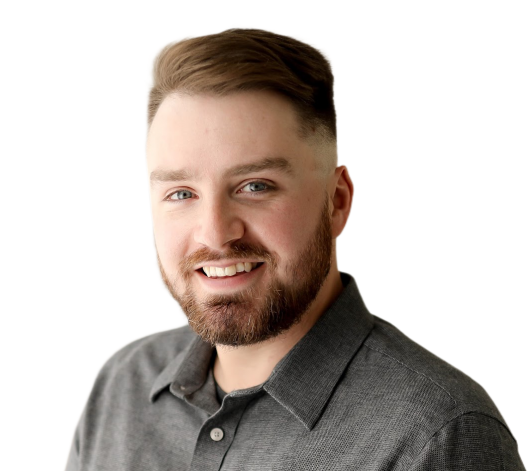
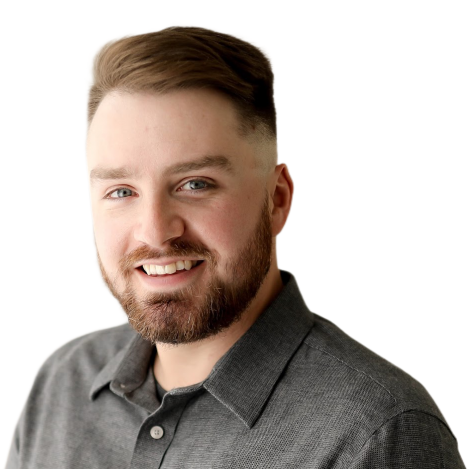
trying to fix production bugs without the right tools

diff --git a/src/routes/+layout.svelte b/src/routes/+layout.svelte
@@ -1,7 +1,6 @@
 <script lang="ts">
   import Header from '../components/Header.svelte';
   import Footer from '../components/Footer.svelte';
-  import '../app.css';
   import { page } from '$app/stores';
   import { dev } from '$app/environment';
   import { inject } from '@vercel/analytics';
@@ -13,8 +12,81 @@
 
 <svelte:head>
   <title>{pageTitle.charAt(0).toUpperCase() + pageTitle.slice(1)}</title>
+  <link rel="preconnect" href="https://fonts.googleapis.com" />
+  <link rel="preconnect" href="https://fonts.gstatic.com" crossorigin />
+  <link
+    href="https://fonts.googleapis.com/css2?family=Inter:wght@400;500;700&display=swap"
+    rel="stylesheet"
+  />
 </svelte:head>
 
 <Header />
 <main><slot /></main>
 <Footer />
+
+<style>
+  :root {
+    box-sizing: border-box;
+    height: 100%;
+    font-family: 'Inter', sans-serif;
+  }
+
+  :global(*, *::before, *::after, *:visited) {
+    box-sizing: inherit;
+    margin: 0;
+    padding: 0;
+    text-decoration: unset;
+    list-style: none;
+  }
+
+  :global(body) {
+    background: black;
+    color: white;
+    max-width: clamp(340px, 100vw, 1440px);
+    min-height: 100dvh;
+    display: grid;
+    grid-template-rows: auto 1fr auto;
+    place-items: center center;
+    margin-inline: auto;
+    padding-block: 0.75rem;
+    padding-inline: 0.5rem;
+  }
+
+  :global(main) {
+    height: 100%;
+    margin-inline: auto;
+    padding-block: 1rem;
+  }
+
+  :global(input, button) {
+    font: inherit;
+  }
+
+  :global(img) {
+    display: block;
+    width: 100%;
+  }
+
+  :global(p, h1, h2, h3, h4, h5, h6) {
+    overflow-wrap: break-word;
+  }
+
+  :global(h1) {
+    font-size: clamp(2.75em, 4rem, 10vw);
+    font-weight: 700;
+  }
+
+  :global(h2) {
+    font-weight: 700;
+    font-size: clamp(2rem, 4vw, 3.5rem);
+  }
+
+  :global(p) {
+    font-size: clamp(1rem, 1.5vw, 1rem);
+  }
+
+  :global(a) {
+    text-decoration: none;
+    color: unset;
+  }
+</style>

diff --git a/src/routes/about/+page.svelte b/src/routes/about/+page.svelte
@@ -26,13 +26,9 @@
 
 <style>
   img {
-    height: clamp(200px, 20vw, 500px);
-    background-color: black;
-    filter: grayscale();
-  }
-
-  img:hover {
-    filter: unset;
+    aspect-ratio: 1;
+    object-fit: contain;
+    width: clamp(6rem, 75vw, 20rem);
   }
 
   h2 {
@@ -60,44 +56,13 @@
   }
 
   div {
+    overflow: hidden;
     width: fit-content;
     margin: 2rem auto;
     border-radius: 50%;
-    border-right: 4px solid transparent;
-    background: linear-gradient(
-      330deg,
-      transparent 35%,
-      #ffffff95,
-      transparent 90%
-    );
+    border-right: 0.25rem solid white;
+    border-bottom: 0.25rem solid white;
     background-size: 140% 150%;
-    filter: drop-shadow(1.5rem 1.25rem 1rem #32323298)
-      drop-shadow(1.5rem 0.85rem 1rem #ffffff90);
-    overflow: hidden;
     transition: all linear 250ms;
-  }
-  div:hover {
-    background: linear-gradient(330deg, #ffec00 35%, #ff0094, transparent 90%);
-    background-size: 140% 150%;
-    filter: drop-shadow(1.5rem 1.25rem 1rem #ffec0098)
-      drop-shadow(1.5rem 0.85rem 1rem #ff009490);
-  }
-
-  @media (hover: none) {
-    div {
-      background: linear-gradient(
-        330deg,
-        #ffec00 35%,
-        #ff0094,
-        transparent 90%
-      );
-      background-size: 140% 150%;
-      filter: drop-shadow(1.5rem 1.25rem 1rem #ffec0098)
-        drop-shadow(1.5rem 0.85rem 1rem #ff009490);
-    }
-
-    img {
-      filter: unset;
-    }
   }
 </style>

diff --git a/src/components/Header.svelte b/src/components/Header.svelte
@@ -1,8 +1,5 @@
 <script lang="ts">
   import { page } from '$app/stores';
-  $: activeUrl = $page.url.pathname;
-
- 
 
   const navLinks: Array<Path> = [
     { name: 'About', path: '/about' },
@@ -16,8 +13,9 @@
     <ul>
       {#each navLinks as navLink}
         <li>
-          <a href={navLink.path} class:active={activeUrl === navLink.path}
-            >{navLink.name}</a
+          <a
+            href={navLink.path}
+            class:active={$page.url.pathname === navLink.path}>{navLink.name}</a
           >
         </li>
       {/each}
@@ -42,8 +40,6 @@
     font-size: clamp(1.45rem, 3vw, 2.5rem);
     font-weight: 700;
     padding-inline: 0.5rem;
-  }
-  header > a:hover {
     background: linear-gradient(to right, #ff0094 0%, #ffec00 100%);
     background-clip: text;
     -webkit-background-clip: text;
@@ -76,19 +72,5 @@
     text-decoration: underline 2px white;
     color: #ffffff;
     transition: all ease 100ms;
-  }
-
-  @media screen and (max-width: 800px) {
-    header > a {
-      background: linear-gradient(to right, #ff0094 0%, #ffec00 100%);
-      background-clip: text;
-      -webkit-background-clip: text;
-      color: transparent;
-    }
-    header > a:active {
-      filter: drop-shadow(0 0 1.5rem white);
-      transition: all 250ms linear;
-      animation: gradient 1s infinite;
-    }
   }
 </style>
